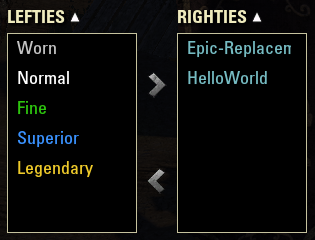
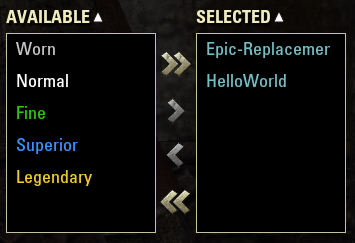
update images and README to reflect latest changes

diff --git a/README.md b/README.md
@@ -30,12 +30,12 @@ local leftListEntries = {
 local customSettings = {
     rowHeight = 30,
     sortBy = "key",
-    emptyListText = "empty",
+    emptyListText = "None",
     showMoveAllButtons = true
 }
 
 -- create the shifterBox and anchor it to a headerControl; also we can change the dimensions
-local itemQualitiesShifterBox = LibShifterBox("MyNewAddon", "ItemQualities", parentControl, "Lefties", "Righties", customSettings)
+local itemQualitiesShifterBox = LibShifterBox("MyNewAddon", "ItemQualities", parentControl, "Available", "Selected", customSettings)
 itemQualitiesShifterBox:SetAnchor(TOPLEFT, headerControl, BOTTOMLEFT, 0, 20)
 itemQualitiesShifterBox:SetDimensions(300, 200)
 
